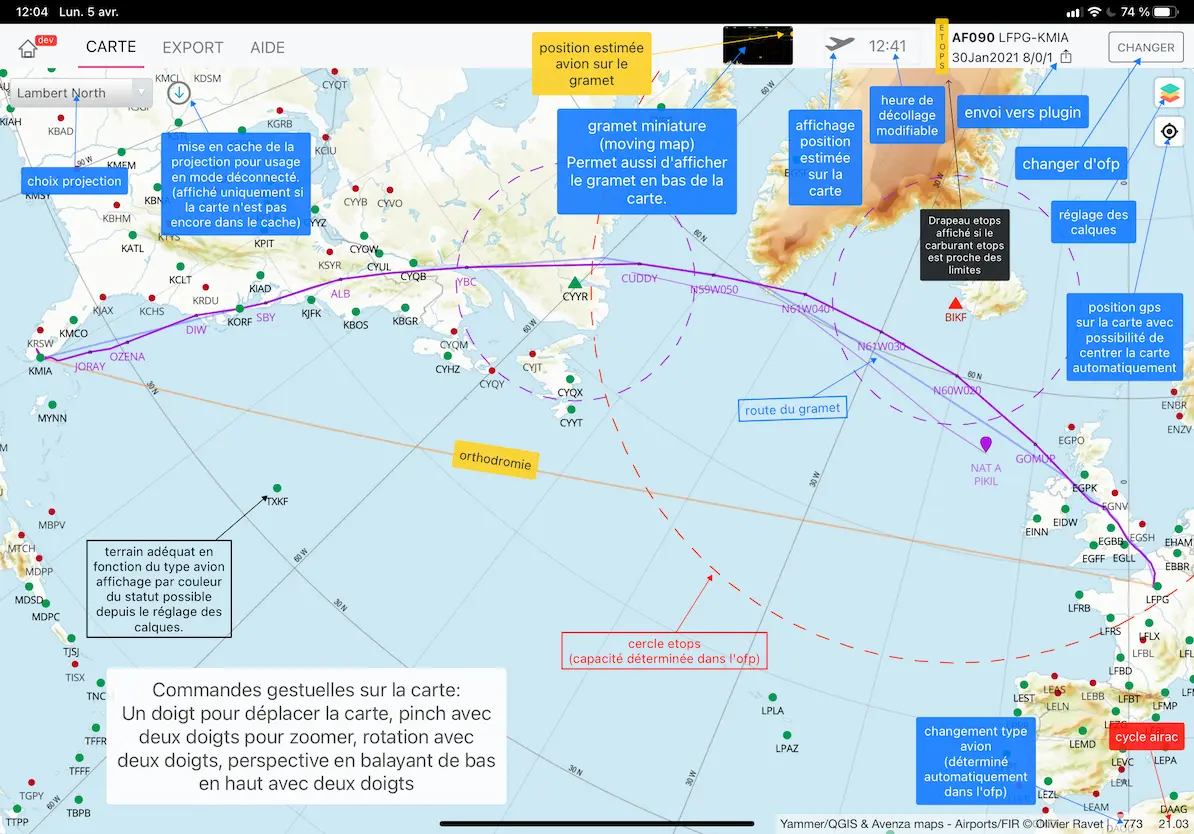
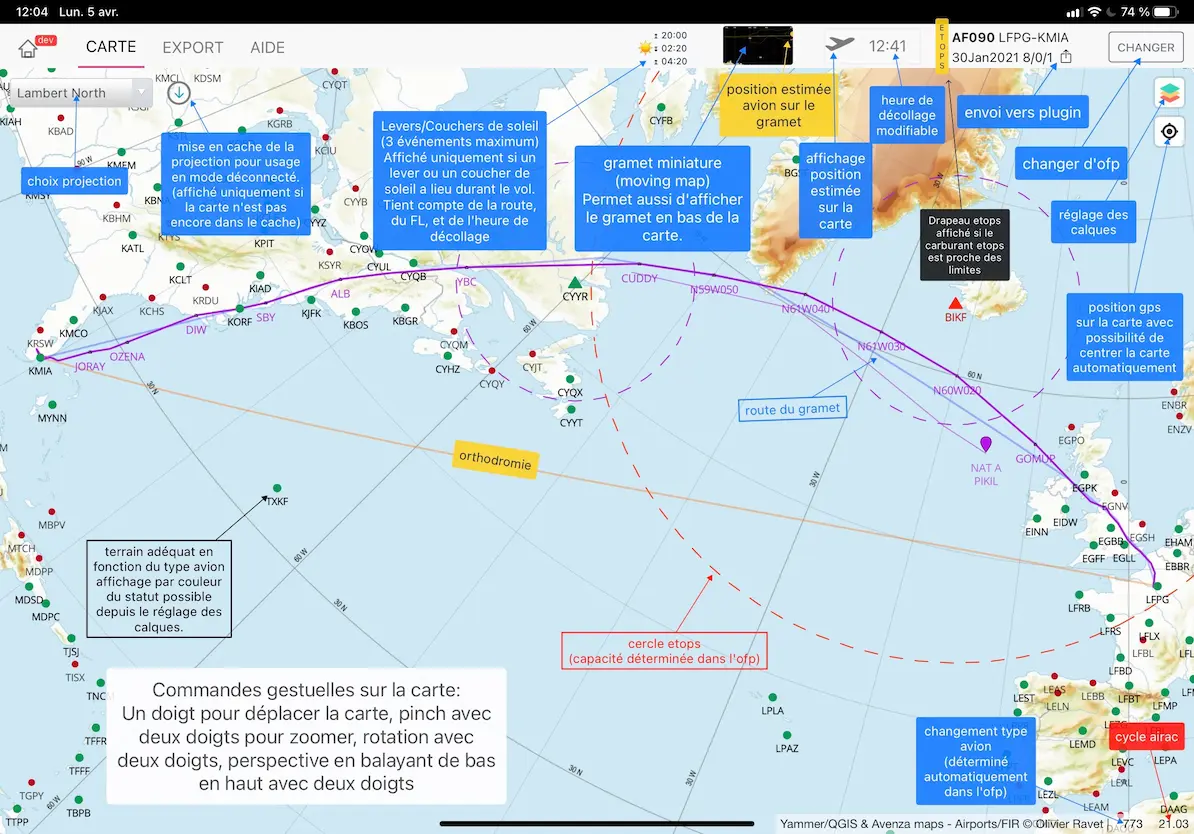
help updated

diff --git a/src/components/Help.md b/src/components/Help.md
@@ -68,6 +68,10 @@ En l'absence de GPS, l'avion dans la barre de menu (à gauche de l'heure de déc
 
 La capacité ETOPS est determinée depuis l'OFP et les cercles sont tracés. Un drapeau ETOPS apparait dans le pavé d'information de l'OFP si le carburant est limitatif (20mn, soit environ 2T de marge sur 777). Pour avoir plus d'informations vous pouvez utiliser un plugin (voir ci-dessous).
 
+## Lever / Coucher de soleil
+
+Un calcul astronomique de la position du soleil est effectué en tenant compte de la route de l'OFP, du FL de l'OFP, et de l'heure de décollage choisie dans l'application. La précision attendue de l'algorithme est de ±1mn sous 72° de latitude et de 10mn au delà. Le widget ne s'affiche que si un lever ou un coucher de soleil a lieu pendant le vol. 3 événements peuvent être affichés au maximum.
+
 ## Mode off-line / Cache
 
 Une fois un premier OFP chargé, il est possible même en mode déconnecté de charger un autre OFP pour l'exporter. Le cache de l'App vous permettra de naviguer sur les cartes déjà visualisées. Pour mettre en cache les cartes, il suffit de les consulter.
@@ -84,7 +88,16 @@ Sur iPad, l'export des fichiers KML affiche une page un peu particulière, utili
 
  Un raccourci peut être lancé depuis la page Export, il recevra les fichiers KML, la route Lido et le Gramet. Le nom du raccourci est modifiable, il faut que le raccourci soit installé avant de le lancer.
 
-__Plugins depuis la carte&#8239;:__ Il est aussi possible de lancer des raccourcis ayant accès au contenu de l'OFP depuis le pavé d'informations du vol dans la barre de menu. Un exemple de plugin est le [cartouche&nbsp;ETOPS](https://www.icloud.com/shortcuts/85acce199353490c9f3a3db0618da19e) qu'il faut au préalable installer dans l'app Raccourcis. Si vous souhaitez créer un plugin, [OFP2MAP-PLUGIN](https://www.icloud.com/shortcuts/d484cdf5939b4cb2a54535ae94c371d1) permet de visualiser les données (format json) transmises par OFP2MAP.
+__Plugins depuis la carte&#8239;:__ Il est aussi possible de lancer des raccourcis ayant accès au contenu de l'OFP depuis le pavé d'informations du vol dans la barre de menu. Il faut autoriser les raccourcis non fiables dans Réglages/Raccourcis, puis installer le(s) plugin(s).
+
+Liste des plugins:
+
+- <Link href="https://www.icloud.com/shortcuts/7a84be04b4f04607876d20a08c39c2ef">OFP2MAP-AURORA</Link> NOAA Aurora Forecast 30-90mn et prévisions à 3 jours.
+- <Link href="https://www.icloud.com/shortcuts/85acce199353490c9f3a3db0618da19e">OFP2MAP-ETOPS</Link> calcule un cartouche ETOPS actualisé
+- <Link href="https://www.icloud.com/shortcuts/ce764c49281643d4a63aec3d8bf848be">OFP2MAP-MENU</Link> menu affichant l'ensemble des plugins installés
+- <Link href="https://www.icloud.com/shortcuts/db21157c4fb441919eed9fa7e2cb644f">OFP2MAP-PLANE FINDER</Link> recherche l'avion avec flightaware.com
+- <Link href="https://www.icloud.com/shortcuts/1ef02bdaecb6406bb600429dccbdfac6">OFP2MAP-PLUGIN</Link> permet de visualiser les données (format json) si vous souhaitez développer un plugin.
+
 
 ## Mise à jour
 
